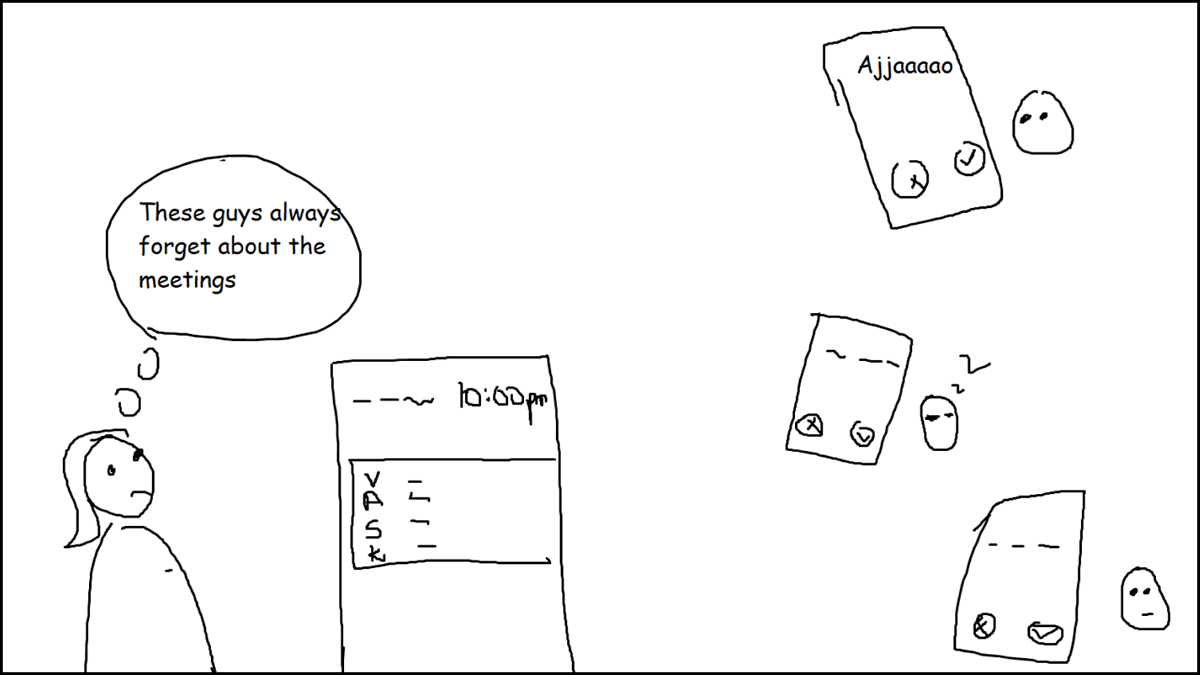
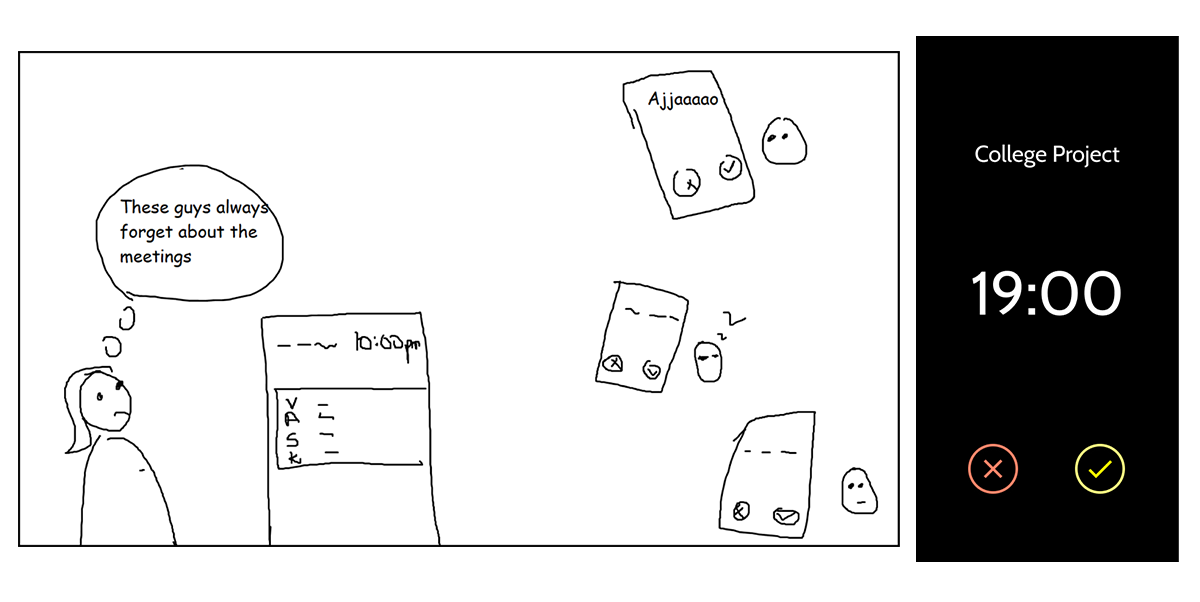
updated pings

diff --git a/pings.html b/pings.html
@@ -28,6 +28,18 @@
   <h3 id="Work">Pings</h3>
 &nbsp;&nbsp;<img src="Pings/coer.png" alt="Cover" width="1200">
 <p>&nbsp;&nbsp;&nbsp;&nbsp;&nbsp;&nbsp;&nbsp;&nbsp;&nbsp;&nbsp;&nbsp;&nbsp;&nbsp;&nbsp;&nbsp;&nbsp;&nbsp;&nbsp;&nbsp;&nbsp;&nbsp;&nbsp;&nbsp;&nbsp;&nbsp;&nbsp;&nbsp;&nbsp;&nbsp;&nbsp;&nbsp;&nbsp;&nbsp;&nbsp;&nbsp;&nbsp;&nbsp;&nbsp;&nbsp;&nbsp;&nbsp;&nbsp;&nbsp;&nbsp;&nbsp;&nbsp;&nbsp;&nbsp;&nbsp;&nbsp;&nbsp;&nbsp;&nbsp;&nbsp;&nbsp;&nbsp;&nbsp;&nbsp;&nbsp;&nbsp;&nbsp;&nbsp;&nbsp;&nbsp;<b>A one screen remort group alarms app</b><br><br>
+<img src="Pings/app.png" alt="Grape" width="1200">
+<br><br>
+<img src="Pings/cards.png" alt="cards" width="1200">
+<i>Contextual cards use cases</i>
+<br><br><br><br><br>
+<img src="Pings/home.png" alt="home" width="1200">
+<i>Contextual card use cases on home screen</i><br><br>
+The User interface was largely influenced by elements from Dialler app, MI Stock alarms app, WhatsApp and Discord
+<br><br>
+<img src="Pings/add.png" alt="add" width="1200">
+<i>Adding an alarm flow</i>
+<br><br>
 <img src="Pings/sc1.png" alt="Grape" width="1200">
 <i>For times when you need man power</i>
 <br><br>
@@ -45,8 +57,6 @@
 <br><br>
 <img src="Pings/cu.png" alt="Grape" width="1200">
 <br>
-<br><br>
-<img src="Pings/app.png" alt="Grape" width="1200">
 <br><br>
 This project was done in colaberation with <a href="https://www.behance.net/vineetkapil">Vineet Kapil</a>, <a href="https://www.behance.net/ankit_k">Ankit Kumar</a> and <a href="https://www.behance.net/khushbooanand">Khushboo Anand</a>.</p>
 
